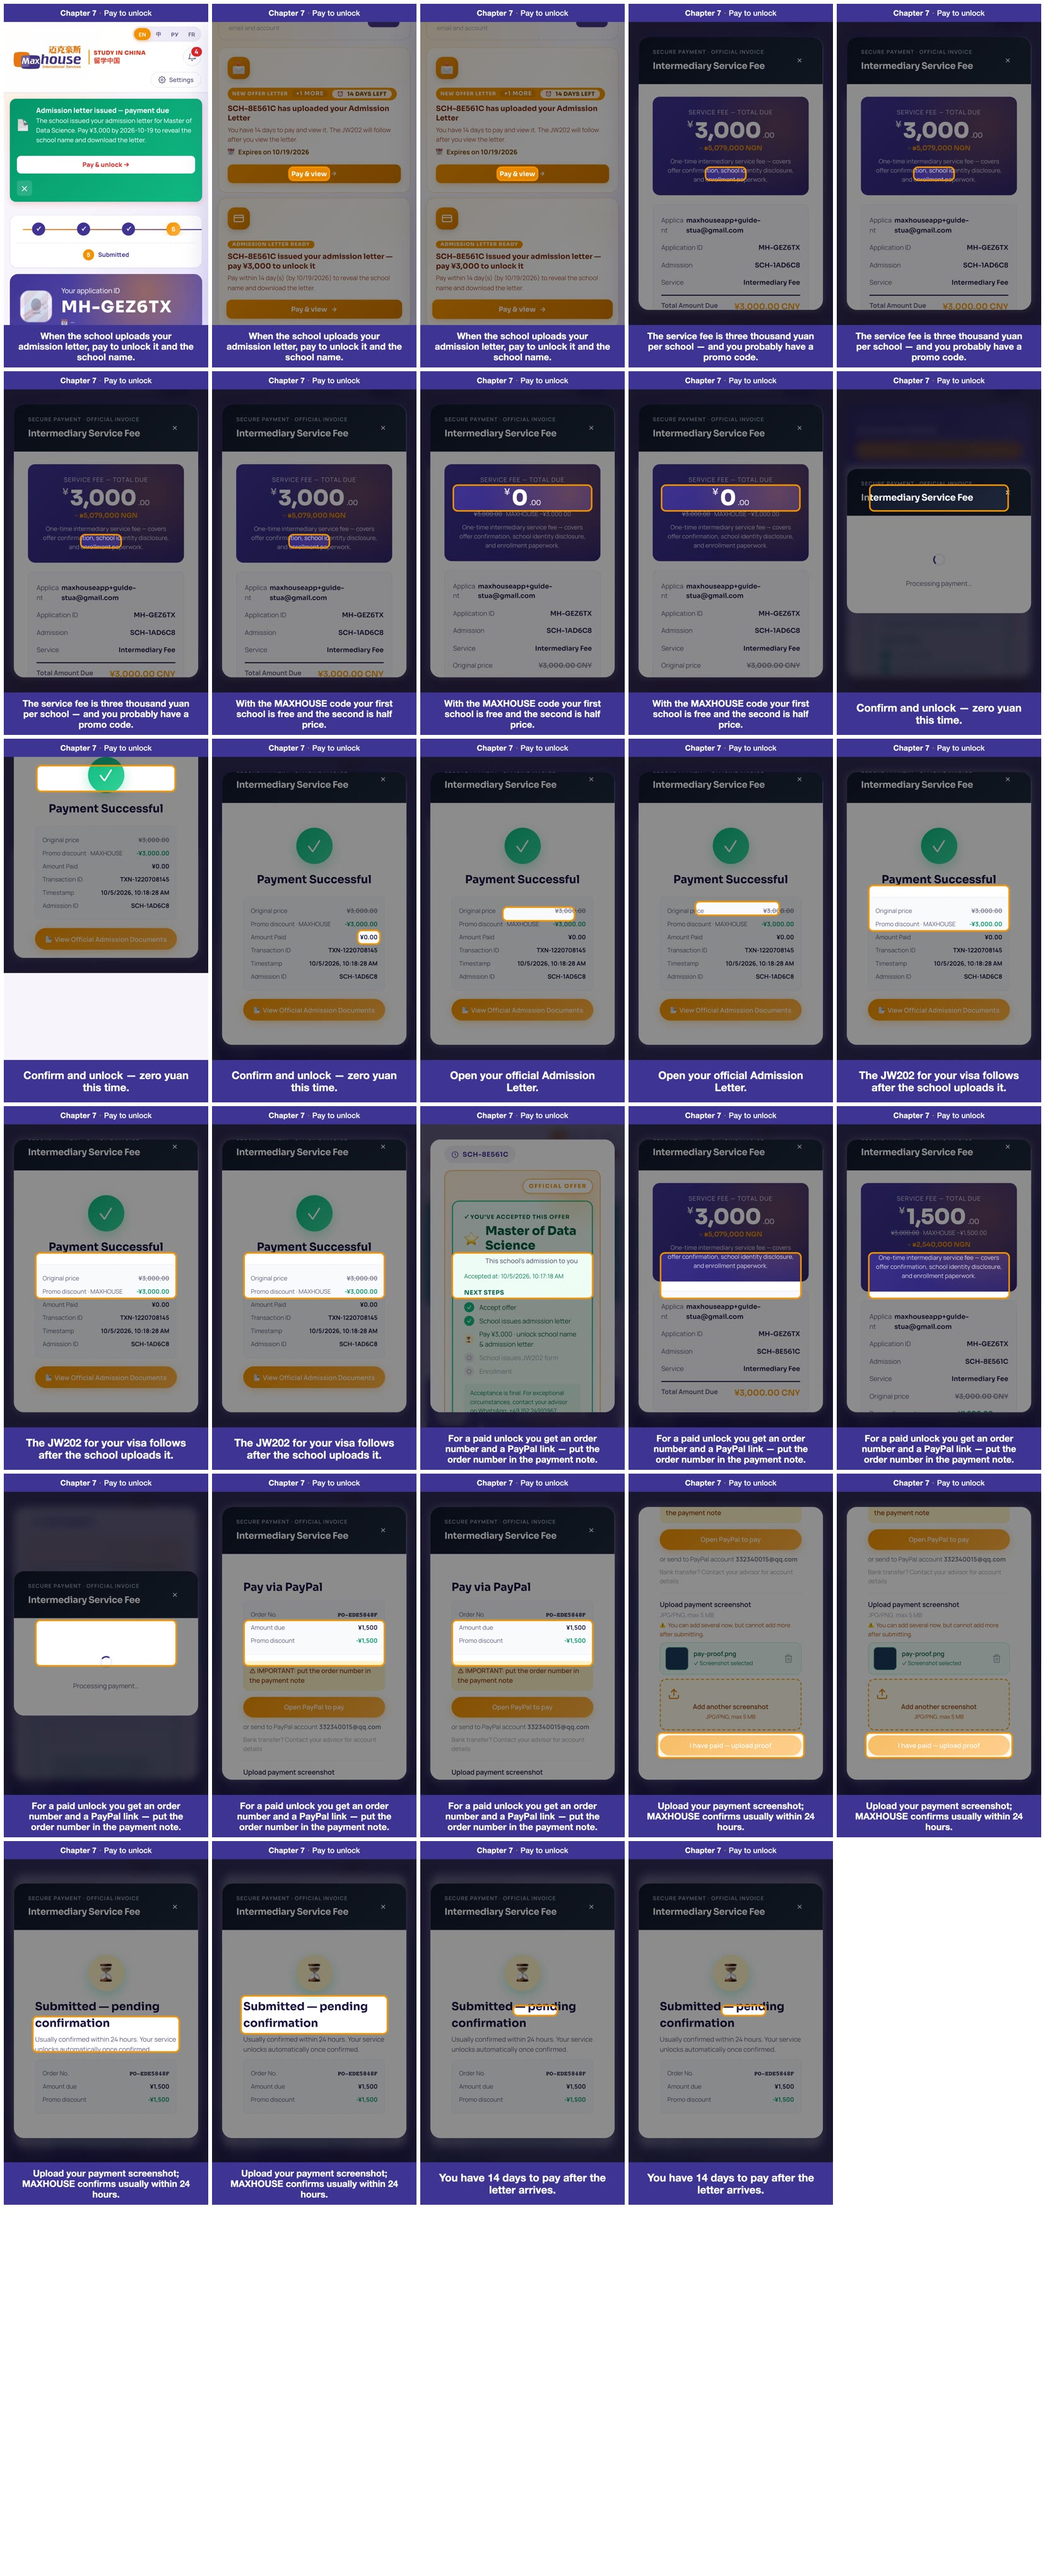
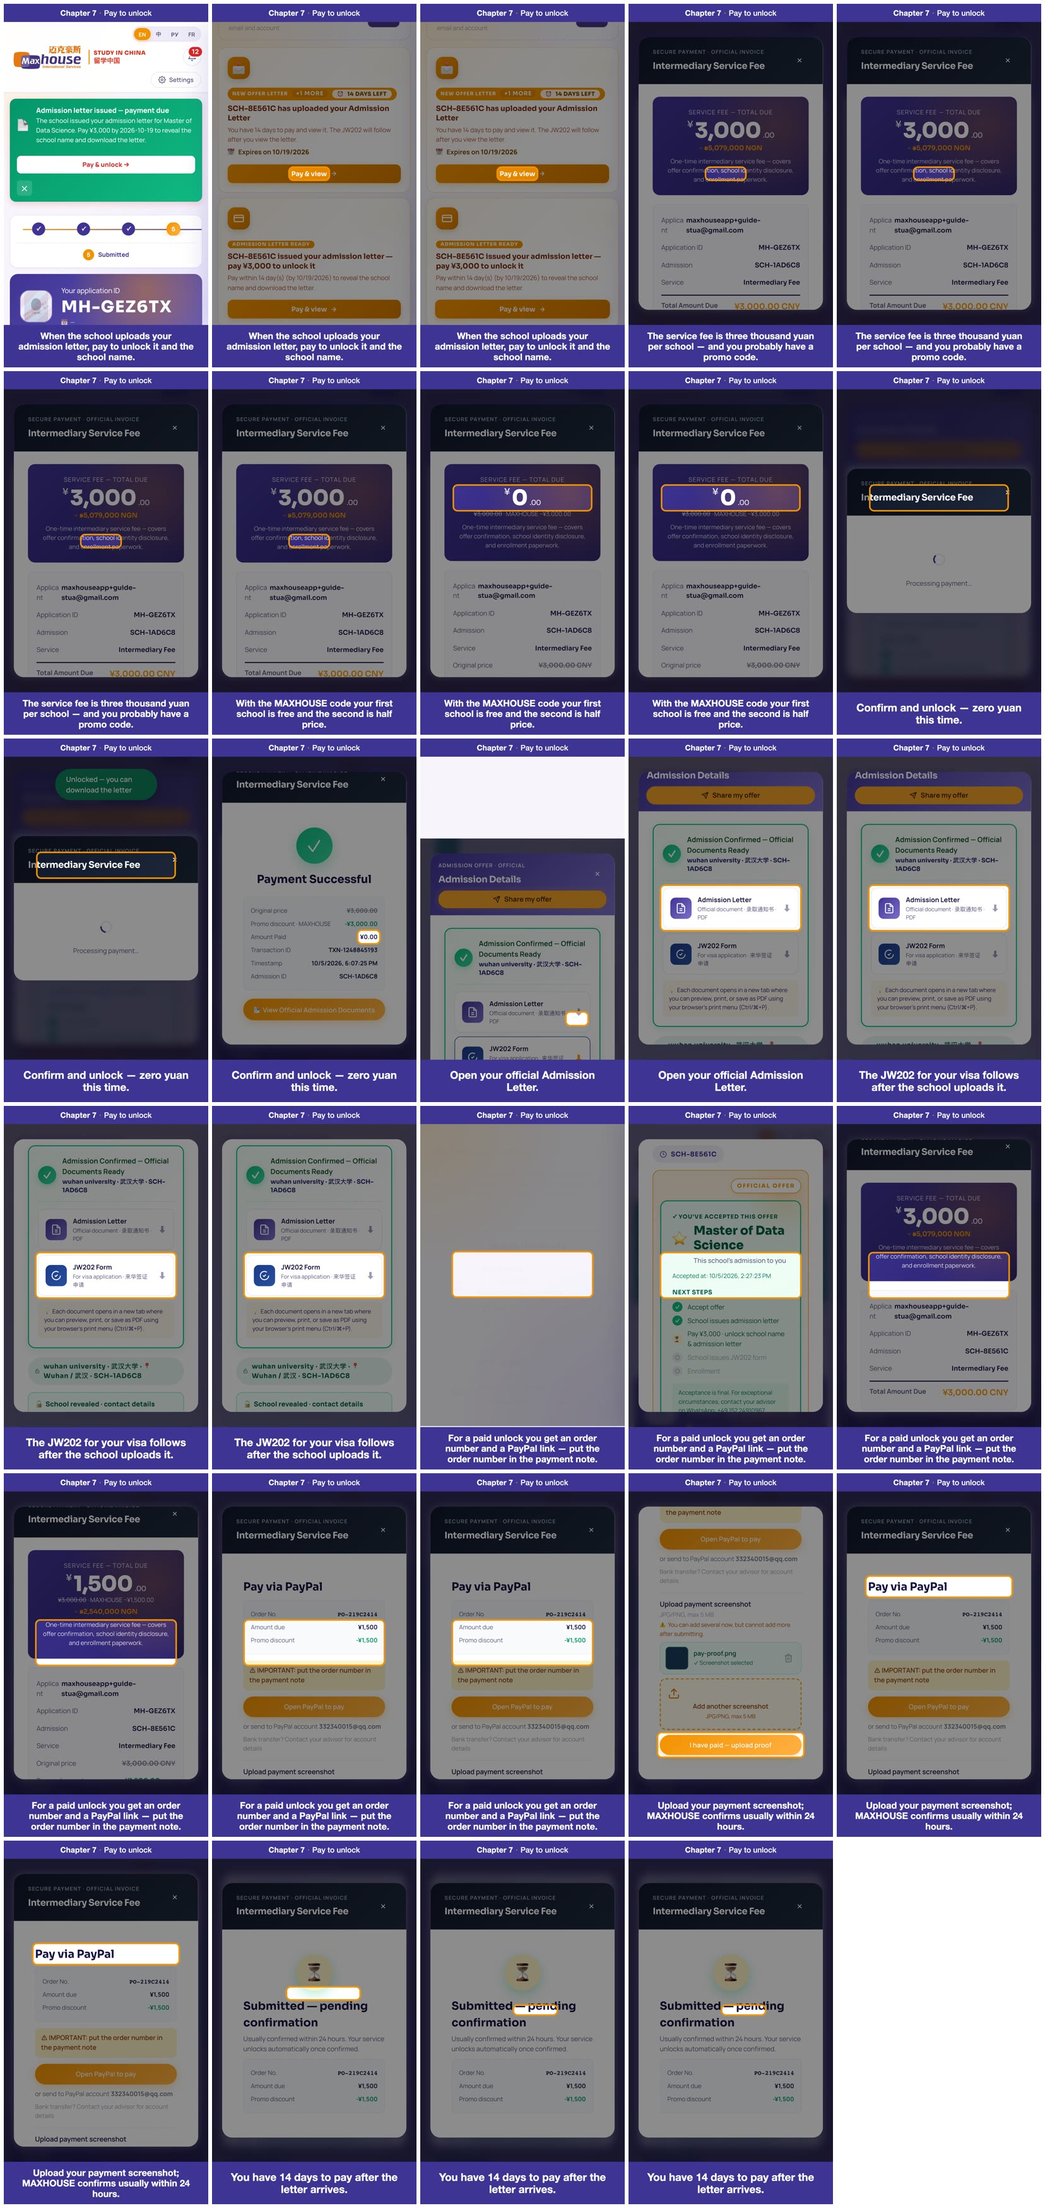
JOB-G2-00 回执:第7/12章四语重录+成片+英文联络表(c07/c12覆盖)

diff --git a/JOB-G2-00.md b/JOB-G2-00.md
@@ -1,0 +1,31 @@
+# JOB-G2-00 回执 · 补第 7、12 章（四语）
+
+**一句话结论：你指出的两处毛病都修好了，第 7、12 章四种语言全部重录、重做成片，所有关卡通过。**
+
+## 你反映的问题 → 现在怎样
+1. **第 7 章 7-5「打开通知书」、7-6「JW202」原来停在"付款成功"弹窗。**
+   - 病根：画面上明明还是"付款成功"那一页，但程序只检查"通知书面板在不在网页代码里"（它藏在付款弹窗背后），所以旧关卡以为过了，其实眼睛看到的还是付款成功。
+   - 现在：7-5 真把"查看官方录取文件"点开，**录取通知书查看器真浮到屏幕最上层**——标题"Admission Confirmed — Official Documents Ready / 武汉大学"、一张"Admission Letter"卡、一张"JW202 Form"卡都看得见；7-5 高亮录取通知书那一行，7-6 高亮 JW202 那一行。
+   - 还顺手治了一个"开了约 3 秒自己关掉"的毛病（后台有个 3 秒的轮询会把弹窗收走）：录这两镜时装了个小守卫，弹窗一被收走立刻重新打开，保证定格时查看器一直在。
+2. **第 12 章 Amal 的学校备注还是"Demo admission (referred, not yet accepted)"。**
+   - 病根：Amal 这位被荐生上一轮已经建好了，重建脚本看到"已存在"就跳过，于是旧的占位备注一直没被改；而文案英文化脚本当时只改了 Ravi、Nour、Lina，漏了 Amal。
+   - 现在：文案英文化脚本补上了 Amal，备注改成自然英文"**Welcome to the Master of Computer Science programme. Please confirm within 14 days.**"。第 12 章 12-9 画面上的 SCHOOL NOTE 已是这句英文。
+   - Ravi 的退回理由本就已是英文（"The transcript scan is blurry and the grading scale is missing. Please re-upload a clear copy."），这次也确认画面上是英文。
+
+## 做了哪些活
+- 改了两个工作文件：录制脚本 `c07.mjs`（7-5/7-6 的新开法 + 守卫）、文案脚本 `fix-demo-text-en.sql`（补 Amal）。第 12 章录制脚本没动。
+- **重录**：第 7 章四语（每语 9 镜全过）、第 12 章四语（每语 11 镜全过）。
+- **重做成片**：四语的第 7、12 章单片 + 整片 full + 速览 quick，全部重新合成。
+- **对账**：manifest 清单 13 章 × 4 语，缺失 0。
+- **过闸**：七格式闸全过（字幕 352 处 0 缺、配音起点误差 ≤12 毫秒、尺寸/体积/faststart 全 OK）；画面变化闸全过；7-5/7-6/12-x 断言全过。
+- **联络表**：英文第 7、12 章联络表重出，已覆盖到 `shots/G1b/c07.jpg`、`c12.jpg`（其余各章字节未变）。
+- **还原演示数据**：录完把演示账号恢复到标准终态，十条断言全 PASS（中介活跃 + Ravi/Nour/Amal 三被荐生 + Lina 双 offer + Omar 在华 + 无残留），且文案已英文化。
+
+## 关卡判据（全过）
+① 7-5/7-6/12-x 断言全过 ✅　② 画面变化闸过 ✅　③ 七格式闸四语全过 ✅　④ 四语 full/quick 时长与 manifest 一致 ✅
+
+## 红线自查
+只碰演示账号（maxhouseapp+guide-*）与两所演示校；真实用户一行没碰；未调 filing-prefill；付款只走 ¥0 核销或停在付款凭证上传（不真扣款）；成片不进任何仓库；未改五端任何代码、未建迁移、未部署。
+
+## 主代码仓库提交
+`bc2e9be JOB-G2-00 …`（只含两个工作文件；成片与录制帧按规矩不入库）。主仓库按本轮例外将在 G2-03 闸全过后由我一并 push。
